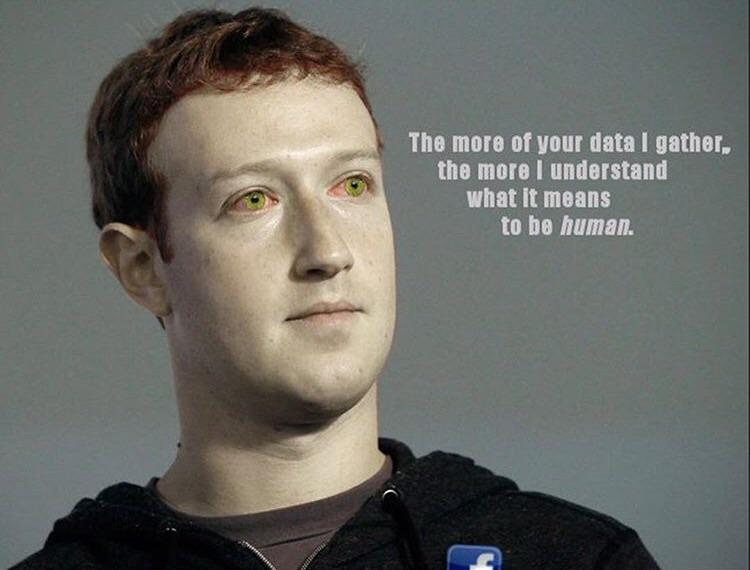
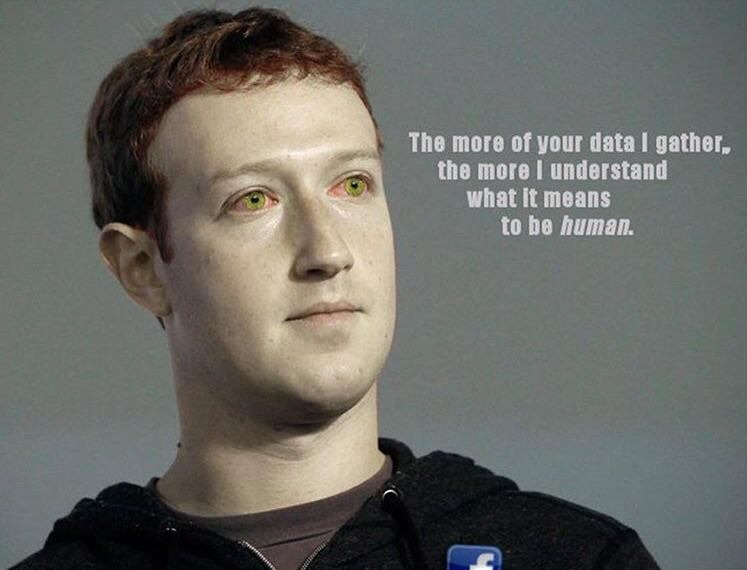
crops image

diff --git a/index.html b/index.html
@@ -1128,7 +1128,7 @@
       <a href="./img/zucc.jpg"><img class="image" src="./img/zucc-214x180.png" alt="Zuckerberg douche."></a>
     </div>
     <div class="inline-block">
-      <a href="./img/zucc-human.jpg"><img class="image" src="./img/zucc-human-237x180.jpg" alt="Zuckerberg douche."></a>
+      <a href="./img/zucc-human.jpg"><img class="image" src="./img/zucc-human-236x180.jpg" alt="Zuckerberg douche."></a>
     </div>
     <div class="inline-block">
       <a href="./img/zucc-consult.jpg"><img class="image" src="./img/zucc-consult-206x180.png" alt="Zuckerberg douche."></a>
